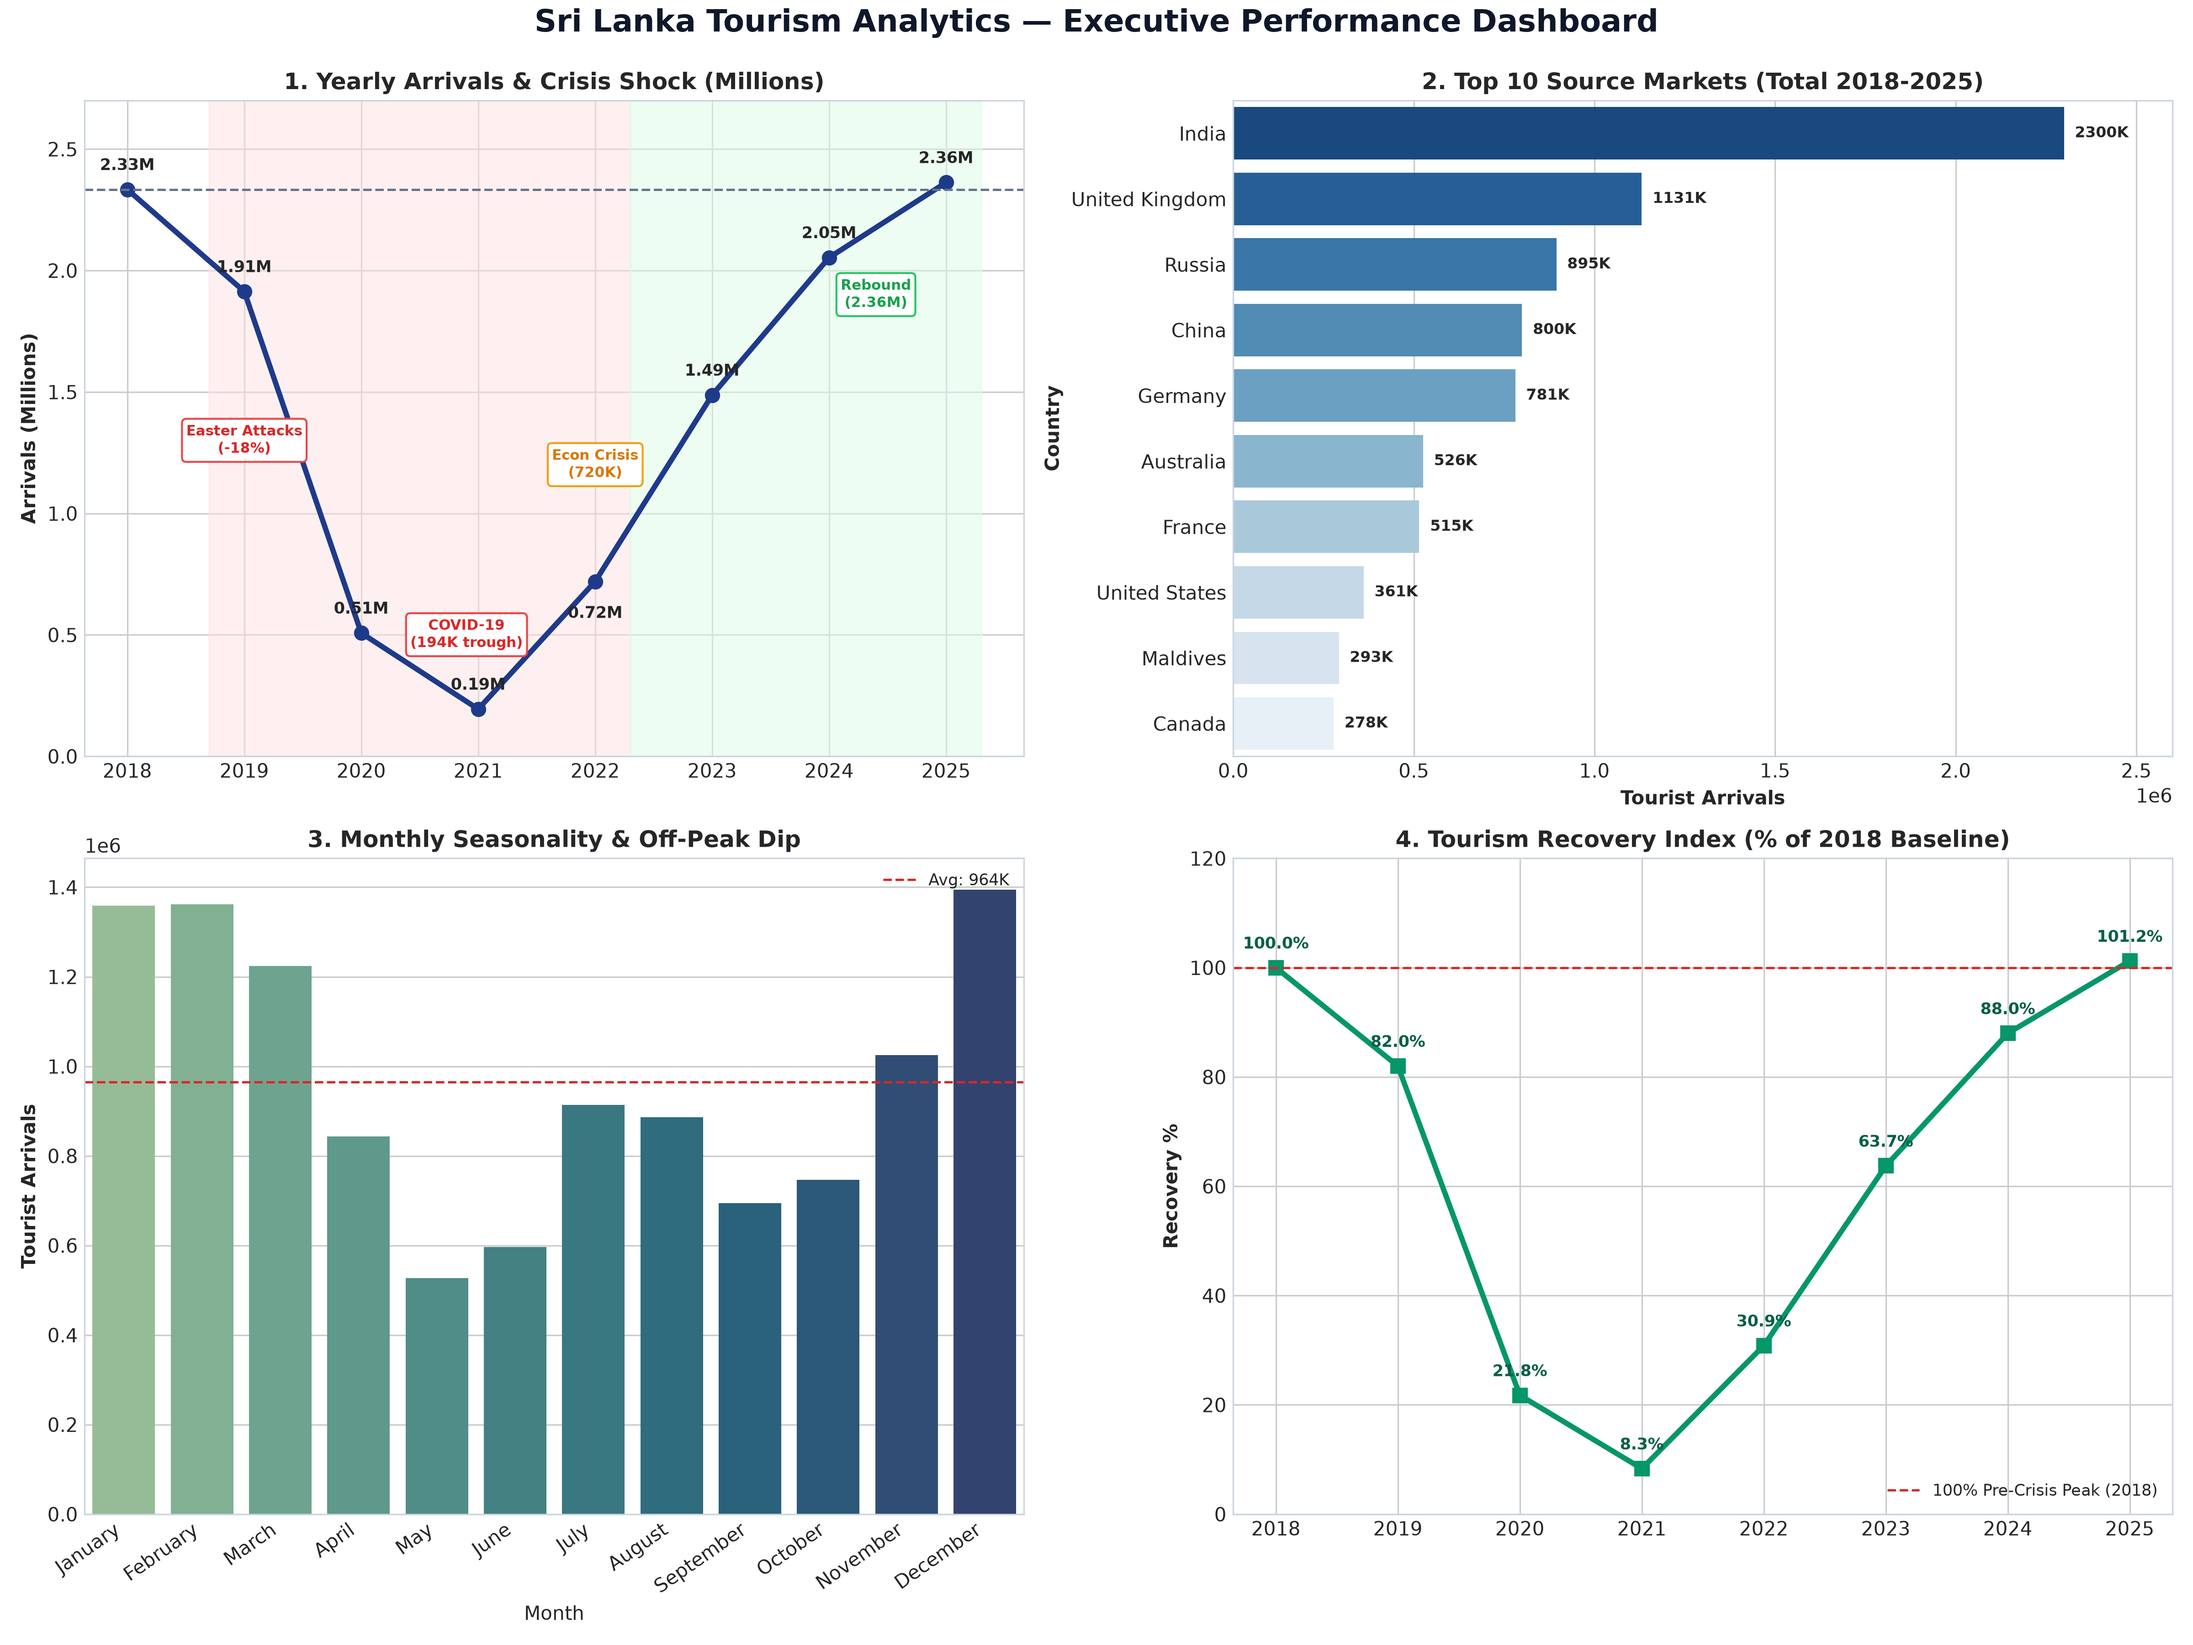
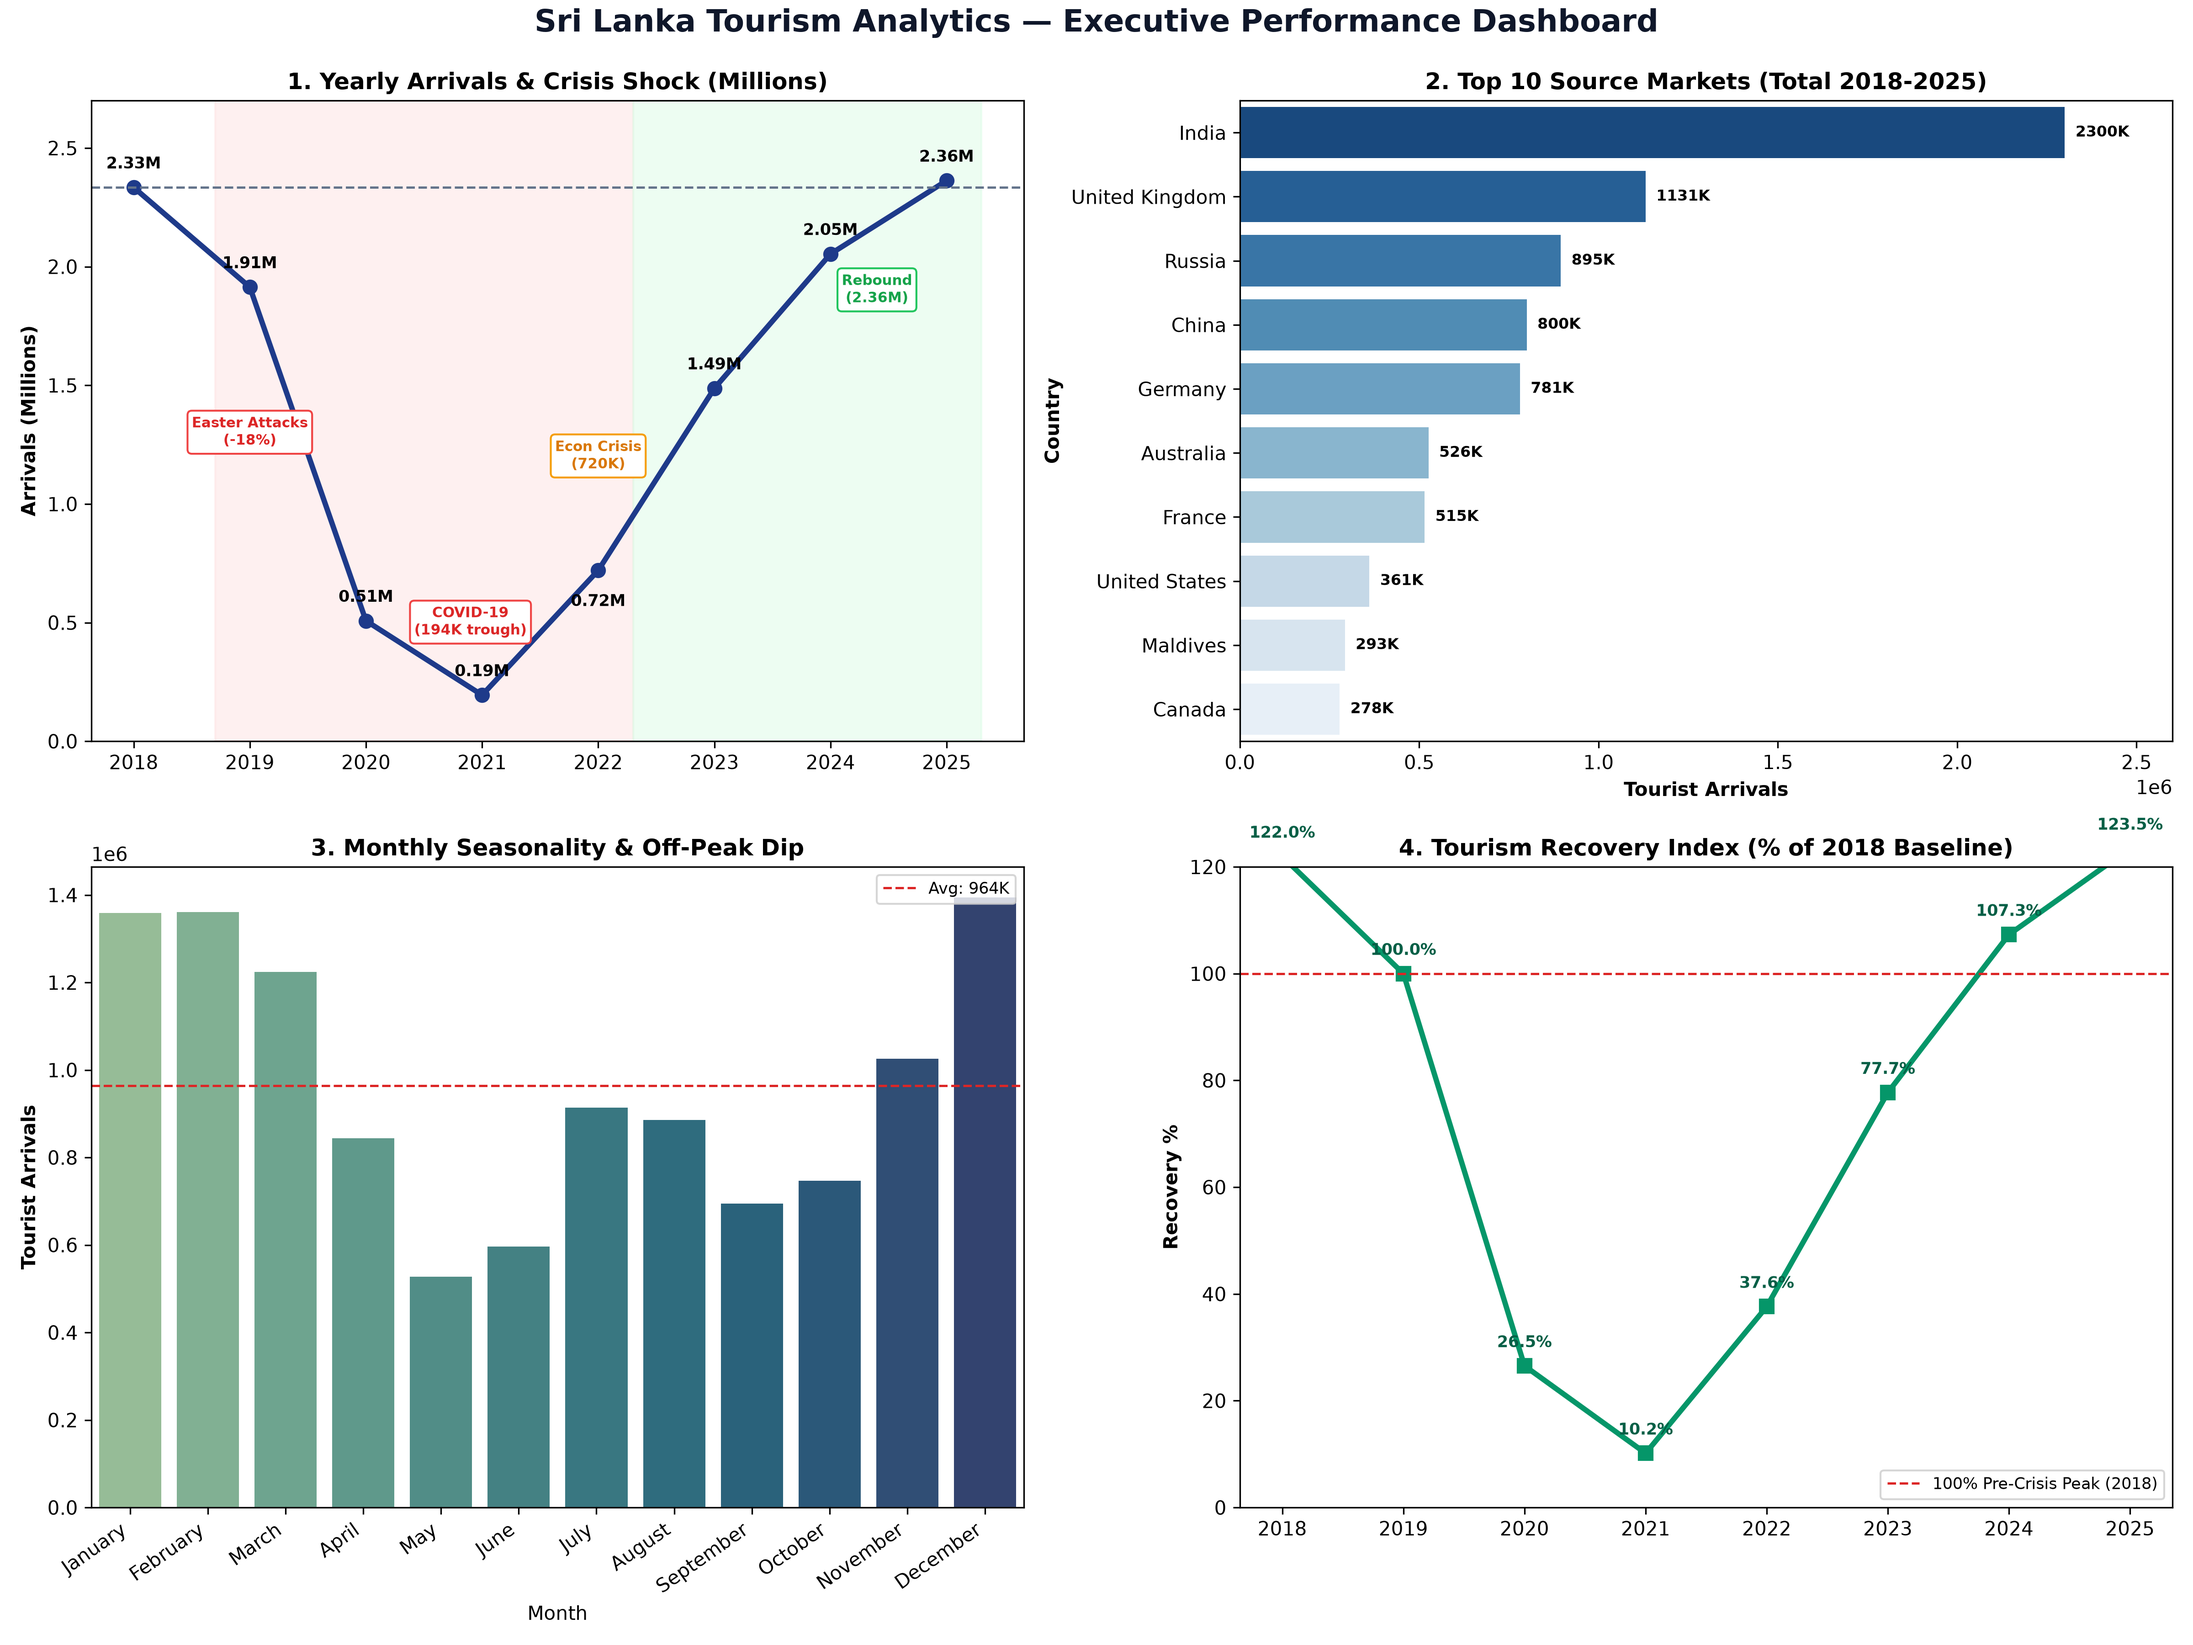
done

diff --git a/app.py b/app.py
@@ -6,9 +6,7 @@ import plotly.graph_objects as go
 from pathlib import Path
 from datetime import datetime
 
-# ---------------------------------------------------------
 # Page Configuration & Modern Dark Theme Styling
-# ---------------------------------------------------------
 st.set_page_config(
     page_title="Sri Lanka Tourism Intelligence & Decision Platform",
     page_icon="🇱🇰",
@@ -180,9 +178,8 @@ st.markdown("""
 </style>
 """, unsafe_allow_html=True)
 
-# ---------------------------------------------------------
+
 # Plotly Dark Theme Preset Helper
-# ---------------------------------------------------------
 def apply_dark_theme(fig, height=430):
     fig.update_layout(
         template="plotly_dark",
@@ -196,10 +193,7 @@ def apply_dark_theme(fig, height=430):
     )
     return fig
 
-# ---------------------------------------------------------
 # Data Loading & Caching
-# ---------------------------------------------------------
-@st.cache_data
 def load_data():
     data_path = Path("data/processed/tourism_arrivals_app_ready.csv")
     if not data_path.exists():
@@ -216,9 +210,8 @@ def load_data():
 
 df_raw = load_data()
 
-# ---------------------------------------------------------
+
 # Sidebar: Control Panel & 5 Strategic Filters
-# ---------------------------------------------------------
 with st.sidebar:
     st.markdown("""
     <div style="text-align: center; margin-bottom: 14px;">
@@ -227,10 +220,9 @@ with st.sidebar:
     </div>
     """, unsafe_allow_html=True)
     st.markdown("### 🎛 Control Panel")
-    #st.markdown("<span style='color: #f97316; font-weight: 700;'>Dark Mode • Orange Intelligence</span>", unsafe_allow_html=True)
     st.divider()
 
-    # 1. Timeline Preset & Year Range
+    #  Timeline Preset & Year Range
     min_year, max_year = int(df_raw["Year"].min()), int(df_raw["Year"].max())
     
     st.subheader("1. Choose Time Period")
@@ -241,7 +233,7 @@ with st.sidebar:
         "Select Time Period",
         options=[
             all_years_label,
-            "Before Crisis (2018–2019)",
+            "Before Crisis (2018–2019)", 
             "Crisis Years (2020–2022)",
             rec_years_label
         ],
@@ -259,11 +251,11 @@ with st.sidebar:
 
     selected_years = st.slider("Select Year Range", min_value=min_year, max_value=max_year, value=default_years)
 
-    # 3. Continent / Region Filter
+    #  Continent / Region Filter
     all_continents = ["All Continents"] + sorted([c for c in df_raw["Continent"].dropna().unique() if c != "Other"])
     selected_continent = st.selectbox("Select Region ", options=all_continents, index=0)
 
-    # 4. Country Filter
+    #  Country Filter
     st.subheader("2. Choose Countries")
     market_mode = st.radio("Filter Countries:", options=["All Countries", "Top 10 Countries", "Pick My Own"], index=0)
     
@@ -283,7 +275,7 @@ with st.sidebar:
     else:
         selected_countries = None
 
-    # 5. Season / Month Filter
+    #  Season / Month Filter
     st.subheader("3. Season & Months")
     season_preset = st.selectbox(
         "Select Season Range",
@@ -318,9 +310,8 @@ with st.sidebar:
     st.divider()
     st.caption("Sri Lanka Tourism Analytics • v2.0")
 
-# ---------------------------------------------------------
+
 # Apply Filters to Dataset
-# ---------------------------------------------------------
 df_filtered = df_raw.copy()
 df_filtered = df_filtered[(df_filtered["Year"] >= selected_years[0]) & (df_filtered["Year"] <= selected_years[1])]
 
@@ -334,15 +325,14 @@ if selected_months:
     df_filtered = df_filtered[df_filtered["Month_Number"].isin(selected_months)]
 
 # Macro reference data
-# Macro reference data
 yearly_full = df_raw.groupby("Year")["Tourist_Arrivals"].sum().reset_index()
 base_2018 = yearly_full.loc[yearly_full["Year"] == 2018, "Tourist_Arrivals"].values[0] if 2018 in yearly_full["Year"].values else 2333796
 latest_year_num = int(yearly_full["Year"].max())
 curr_latest = yearly_full.loc[yearly_full["Year"] == latest_year_num, "Tourist_Arrivals"].values[0]
+curr_2025 = curr_latest
 
-# ---------------------------------------------------------
+
 # Top Header & Macro KPI Snapshot
-# ---------------------------------------------------------
 st.markdown("""
 <div class="hero-container">
     <div class="hero-title-text">Sri Lanka Tourism Intelligence & Decision Platform</div>
@@ -364,9 +354,8 @@ kpi_c5.metric("Lowest Year (2021)", "194.5K", delta="-91.7% vs 2018", delta_colo
 
 st.markdown("---")
 
-# ---------------------------------------------------------
+
 # 5-Step Operational Framework Tabs
-# ---------------------------------------------------------
 tabs = st.tabs([
     "1⃣ Shocks & Recovery",
     "2⃣ Top Countries",
@@ -375,13 +364,11 @@ tabs = st.tabs([
     "5⃣ Action Plans"
 ])
 
-# =========================================================
+
 # TAB 1: SHOCKS & RECOVERY
-# =========================================================
 with tabs[0]:
     st.subheader(f"1⃣ Major Shocks & Visitor Recovery ({min_year}–{max_year})")
    
-
     yearly_filtered = df_filtered.groupby("Year")["Tourist_Arrivals"].sum().reset_index()
     yearly_filtered["YoY_Growth_%"] = yearly_filtered["Tourist_Arrivals"].pct_change() * 100
 
@@ -445,13 +432,11 @@ with tabs[0]:
         st.dataframe(y_summary[["Year", "Total Visitors", "YoY Growth"]], use_container_width=True, hide_index=True)
 
 
-# =========================================================
+
 # TAB 2: TOP COUNTRIES & SEASONALITY
-# =========================================================
 with tabs[1]:
     st.subheader("2⃣ Top Countries & Seasonality")
     
-
     col_m1, col_m2 = st.columns([6, 4])
     
     country_totals = df_filtered.groupby("Standard_Country")["Tourist_Arrivals"].sum().sort_values(ascending=False).reset_index()
@@ -607,13 +592,10 @@ with tabs[1]:
 
 
 
-# =========================================================
 # TAB 3: FUTURE FORECAST (2026–2028)
-# =========================================================
 with tabs[2]:
     st.subheader("3⃣ Future Visitor Forecast (2026–2028)")
     
-
     sc_col1, sc_col2 = st.columns([4, 6])
 
     with sc_col1:
@@ -639,7 +621,7 @@ with tabs[2]:
         elif "Regional Economic Slowdown" in sim_shock:
             shock_factor = -0.10
 
-    curr_base = curr_2025
+    curr_base = curr_latest
     proj_years = [2026, 2027, 2028]
     eff_growth = (sim_growth_base / 100.0) + shock_factor
 
@@ -685,9 +667,7 @@ with tabs[2]:
 
 
 
-# =========================================================
 # TAB 4: HOTEL ROOM PLANNING
-# =========================================================
 with tabs[3]:
     st.subheader("4⃣ Hotel Room Planning")
    
@@ -729,9 +709,9 @@ with tabs[3]:
         apply_dark_theme(fig_cap, height=350)
         st.plotly_chart(fig_cap, use_container_width=True)
 
-# =========================================================
+
+
 # TAB 5: DECISION CENTER (Action Plans & Next Steps)
-# =========================================================
 with tabs[4]:
     st.subheader("5⃣ Decision Center: Simple Action Plans")
     st.markdown("Clear, practical steps for hotels, airlines, and tourism planners to grow visitors and revenue.")

diff --git a/update_data.py b/update_data.py
@@ -1,19 +1,3 @@
-"""
-=============================================================================
-Sri Lanka Tourism Analytics - Automated Monthly Data Ingestion
-=============================================================================
-This script checks for new monthly tourist arrival data from the Sri Lanka
-Tourism Development Authority (SLTDA), processes & standardizes new country 
-records, and updates the application-ready dataset:
-    data/processed/tourism_arrivals_app_ready.csv
-
-Usage:
-    python update_data.py           # Auto-checks online SLTDA publications
-    python update_data.py --check   # Shows current latest data status
-    python update_data.py --file <path_to_excel_or_csv>  # Ingest manual file
-=============================================================================
-"""
-
 import sys
 import os
 import argparse
@@ -52,7 +36,6 @@ INV_MONTH_MAP = {v.lower(): k for k, v in MONTH_MAP.items()}
 
 
 def get_current_data_status():
-    """Reads existing dataset and returns latest Year, Month, Date, and count."""
     if not os.path.exists(CSV_PATH):
         logger.error(f"Dataset not found at {CSV_PATH}")
         return None
@@ -76,10 +59,6 @@ def get_current_data_status():
 
 
 def clean_and_standardize_data(new_df):
-    """
-    Standardizes country names, computes continent, and formats required schema:
-    [Year, Country, Month, Tourist_Arrivals, Month_Number, Date, Standard_Country, Continent]
-    """
     logger.info("Standardizing country names and mapping continents...")
     
     # Required columns check
@@ -129,7 +108,6 @@ def clean_and_standardize_data(new_df):
 
 
 def append_and_save(existing_df, new_cleaned_df):
-    """Merges and saves updated records to CSV with deduplication."""
     initial_count = len(existing_df)
     
     # Identify unique period identifiers in new data
@@ -155,7 +133,6 @@ def append_and_save(existing_df, new_cleaned_df):
 
 
 def check_sltda_online():
-    """Checks SLTDA website for latest publications."""
     logger.info(f"Checking SLTDA website: {SLTDA_URL}")
     headers = {
         "User-Agent": "Mozilla/5.0 (Windows NT 10.0; Win64; x64) AppleWebKit/537.36 (KHTML, like Gecko) Chrome/115.0.0.0 Safari/537.36"
@@ -177,7 +154,6 @@ def check_sltda_online():
 
 
 def show_yearly_summary(df):
-    """Computes and prints clean year-by-year summary table with YoY growth."""
     yearly = df.groupby("Year")["Tourist_Arrivals"].sum().reset_index()
     yearly["Growth_YoY_%"] = yearly["Tourist_Arrivals"].pct_change() * 100
 
@@ -206,7 +182,6 @@ def show_yearly_summary(df):
 
 
 def export_by_year(df):
-    """Splits master dataset into individual yearly CSV files in data/processed/by_year/."""
     out_dir = os.path.join("data", "processed", "by_year")
     os.makedirs(out_dir, exist_ok=True)
     years = sorted(df["Year"].unique())
